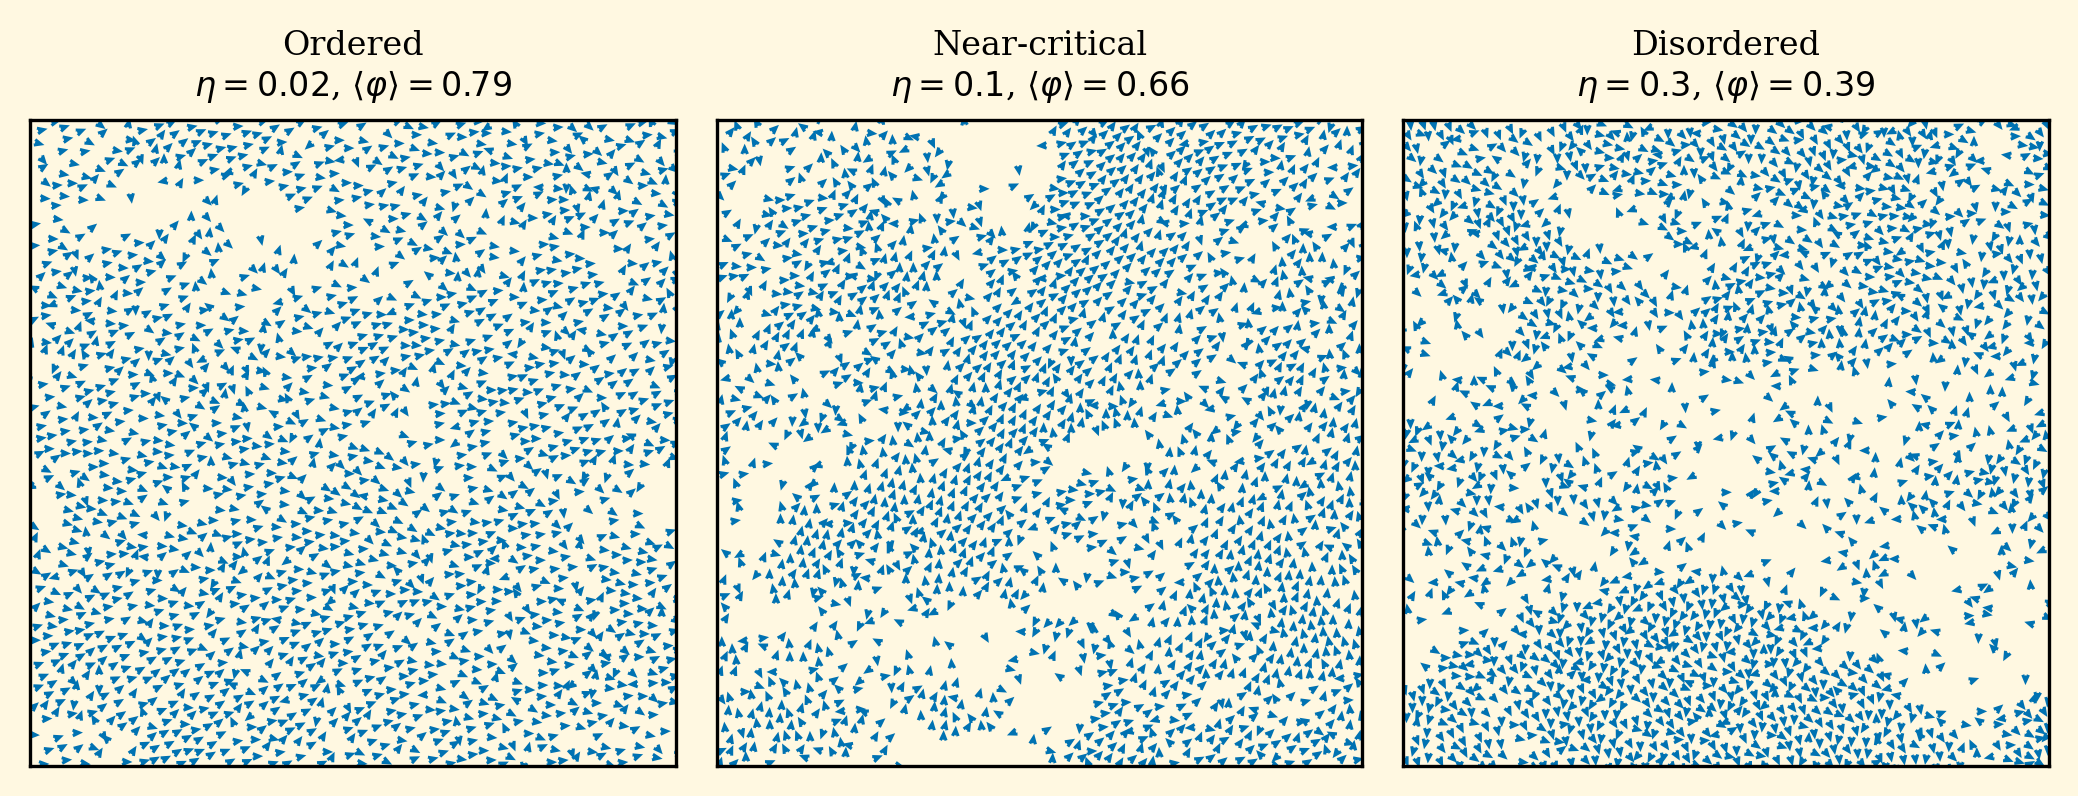
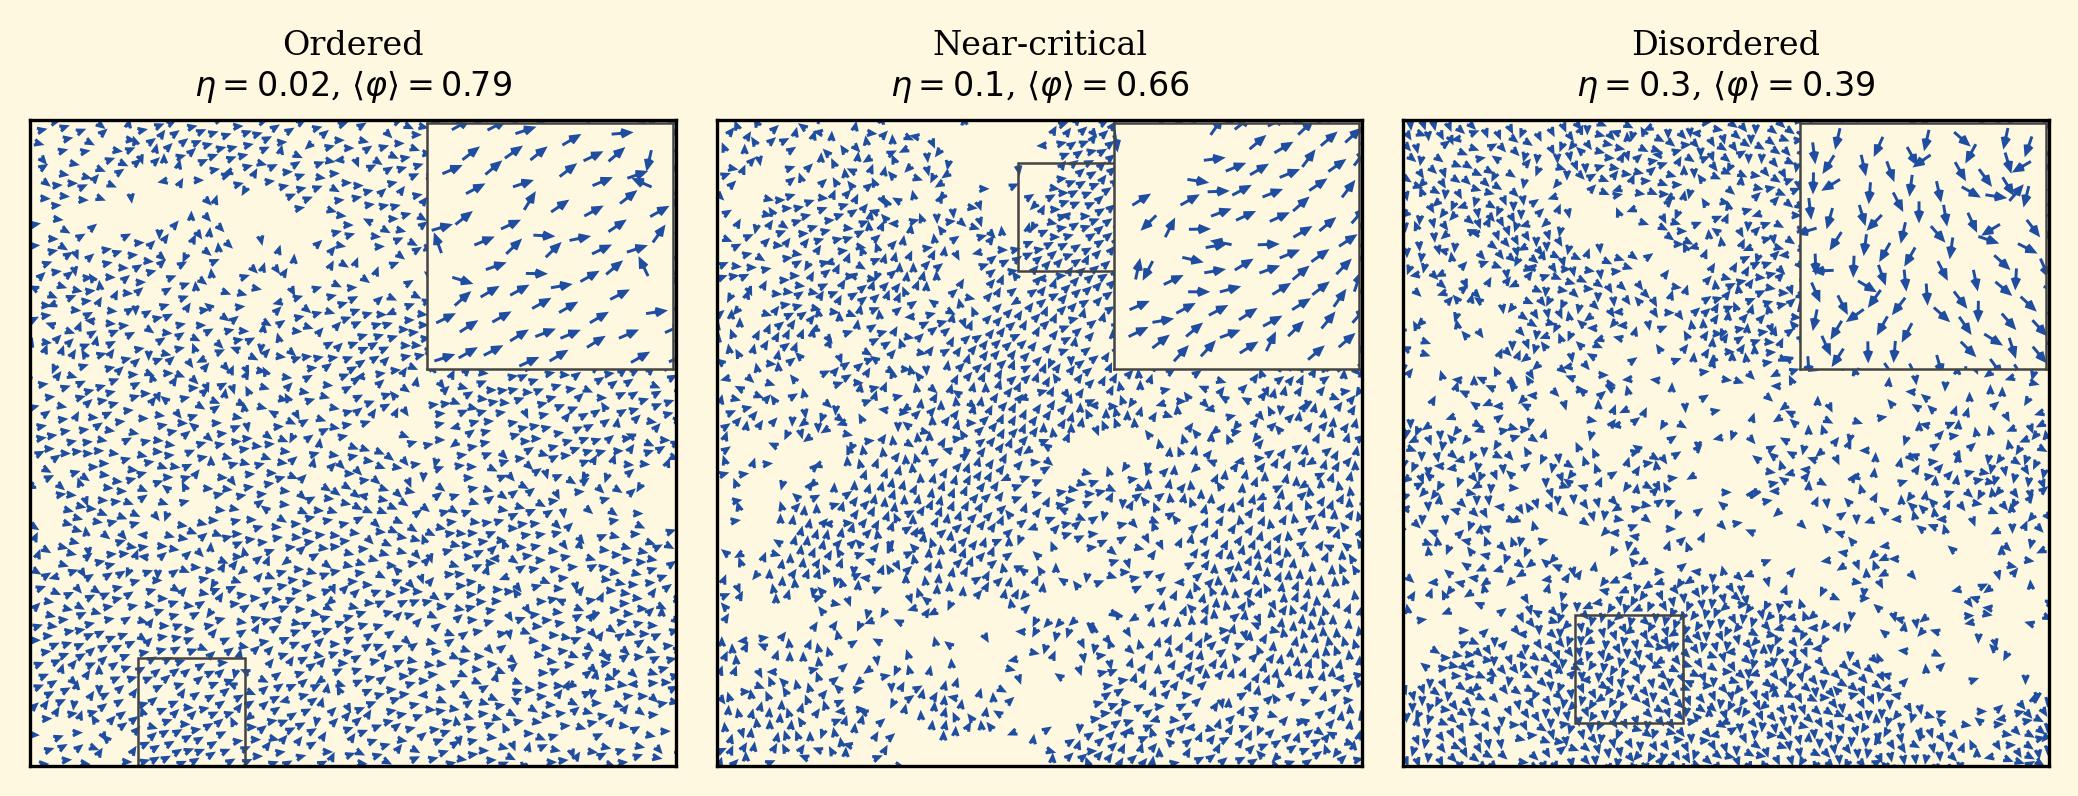
fig: add zoom inset + switch snapshots to v1 navy
At L=30 with N=2000 the panel-scale arrows render as dots. Add
a per-panel zoom inset (5x5 window centred on the densest
sub-region) so the shaft + head and the local heading
correlations are resolvable at print size. Switch the snapshot
quiver colour from the Wong blue (#0072B2) to the v1 navy
(#1f4ea1) for higher contrast on cream. Add the _zoom_inset
helper alongside _cream_panel / _cream_save and bump
fig_double_3regimes panel height to 3.2 in to fit the inset.

diff --git a/src/make_figures.py b/src/make_figures.py
@@ -24,9 +24,61 @@ def _save(fig, name):
     print(f"  saved {out}")
 
 
+SNAPSHOT_BLUE = "#1f4ea1"  # v1 navy: best contrast on cream at print size
+
+
 def _cream_panel(ax):
     """v1 snapshot aesthetic: cream face on the panel."""
     ax.set_facecolor(style.CREAM)
+
+
+def _zoom_inset(ax, xs, ys, ths, L, zoom_size=5.0, loc="upper right",
+                inset_frac=0.38, arrow_len=0.45):
+    """Add a square zoom inset showing a clearly resolved sub-region.
+
+    The inset is anchored in `loc` corner of the parent axes and shows
+    a `zoom_size`-wide square centred on a dense patch of the snapshot
+    (chosen automatically as the densest sub-window). Arrows in the
+    inset use the same colour and geometry as v1 fig_snapshots."""
+    from matplotlib.patches import Rectangle
+    H, xe, ye = np.histogram2d(xs, ys, bins=10, range=[[0, L], [0, L]])
+    ix, iy = np.unravel_index(np.argmax(H), H.shape)
+    cx = 0.5 * (xe[ix] + xe[ix + 1])
+    cy = 0.5 * (ye[iy] + ye[iy + 1])
+    half = zoom_size / 2
+    x0 = max(0.0, min(L - zoom_size, cx - half))
+    y0 = max(0.0, min(L - zoom_size, cy - half))
+    x1 = x0 + zoom_size
+    y1 = y0 + zoom_size
+
+    # Anchor (x, y, w, h) in parent-axes coords for upper-right /
+    # upper-left corners (we only use upper-right here).
+    if loc == "upper right":
+        anchor = (1.0 - inset_frac - 0.005, 1.0 - inset_frac - 0.005,
+                  inset_frac, inset_frac)
+    else:
+        anchor = (0.005, 1.0 - inset_frac - 0.005,
+                  inset_frac, inset_frac)
+    iax = ax.inset_axes(anchor)
+    iax.set_facecolor(style.CREAM)
+    sel = (xs >= x0) & (xs <= x1) & (ys >= y0) & (ys <= y1)
+    iax.quiver(
+        xs[sel], ys[sel], np.cos(ths[sel]), np.sin(ths[sel]),
+        color=SNAPSHOT_BLUE,
+        scale=1.0 / arrow_len, scale_units="xy",
+        angles="xy", width=0.012,
+        headwidth=3.5, headlength=4.0,
+    )
+    iax.set_xlim(x0, x1); iax.set_ylim(y0, y1)
+    iax.set_aspect("equal")
+    iax.set_xticks([]); iax.set_yticks([])
+    for spine in iax.spines.values():
+        spine.set_edgecolor("#444")
+        spine.set_linewidth(0.6)
+
+    rect = Rectangle((x0, y0), zoom_size, zoom_size,
+                     fill=False, edgecolor="#444", linewidth=0.6)
+    ax.add_patch(rect)
 
 
 def _cream_save(fig, name):
@@ -390,13 +442,15 @@ def fig_double_snapshot(npz_path: Path):
             _cream_panel(ax)
             ax.quiver(x[im, ic], y[im, ic],
                       np.cos(theta[im, ic]), np.sin(theta[im, ic]),
-                      color=style.PARTICLE_BLUE,
+                      color=SNAPSHOT_BLUE,
                       scale=1.0 / arrow_len, scale_units="xy",
                       angles="xy", width=0.004,
                       headwidth=3.5, headlength=4.0)
             ax.set_xlim(0, L); ax.set_ylim(0, L)
             ax.set_aspect("equal")
             ax.set_xticks([]); ax.set_yticks([])
+            _zoom_inset(ax, x[im, ic], y[im, ic], theta[im, ic],
+                        L, zoom_size=5.0, arrow_len=arrow_len)
             nice_c = _disp(case_labels[ic])
             nice_m = _disp(mode_labels[im])
             ax.set_title(
@@ -871,7 +925,7 @@ def fig_double_3regimes(npz_path: Path):
     nice_cases = ["Ordered", "Near-critical", "Disordered"]
 
     fig, axes = plt.subplots(1, 3,
-                              figsize=(style.DOUBLE_COL[0], 2.6))
+                              figsize=(style.DOUBLE_COL[0], 3.2))
     arrow_len = 0.45
     for ic, ax in enumerate(axes):
         _cream_panel(ax)
@@ -879,7 +933,7 @@ def fig_double_3regimes(npz_path: Path):
         v = np.sin(theta[im_full, ic])
         ax.quiver(
             x[im_full, ic], y[im_full, ic], u, v,
-            color=style.PARTICLE_BLUE,
+            color=SNAPSHOT_BLUE,
             scale=1.0 / arrow_len, scale_units="xy",
             angles="xy", width=0.004,
             headwidth=3.5, headlength=4.0,
@@ -887,6 +941,8 @@ def fig_double_3regimes(npz_path: Path):
         ax.set_xlim(0, L); ax.set_ylim(0, L)
         ax.set_aspect("equal")
         ax.set_xticks([]); ax.set_yticks([])
+        _zoom_inset(ax, x[im_full, ic], y[im_full, ic], theta[im_full, ic],
+                    L, zoom_size=5.0, arrow_len=arrow_len)
         ax.set_title(
             f"{nice_cases[ic]}\n"
             fr"$\eta={eta[ic]:g}$, "